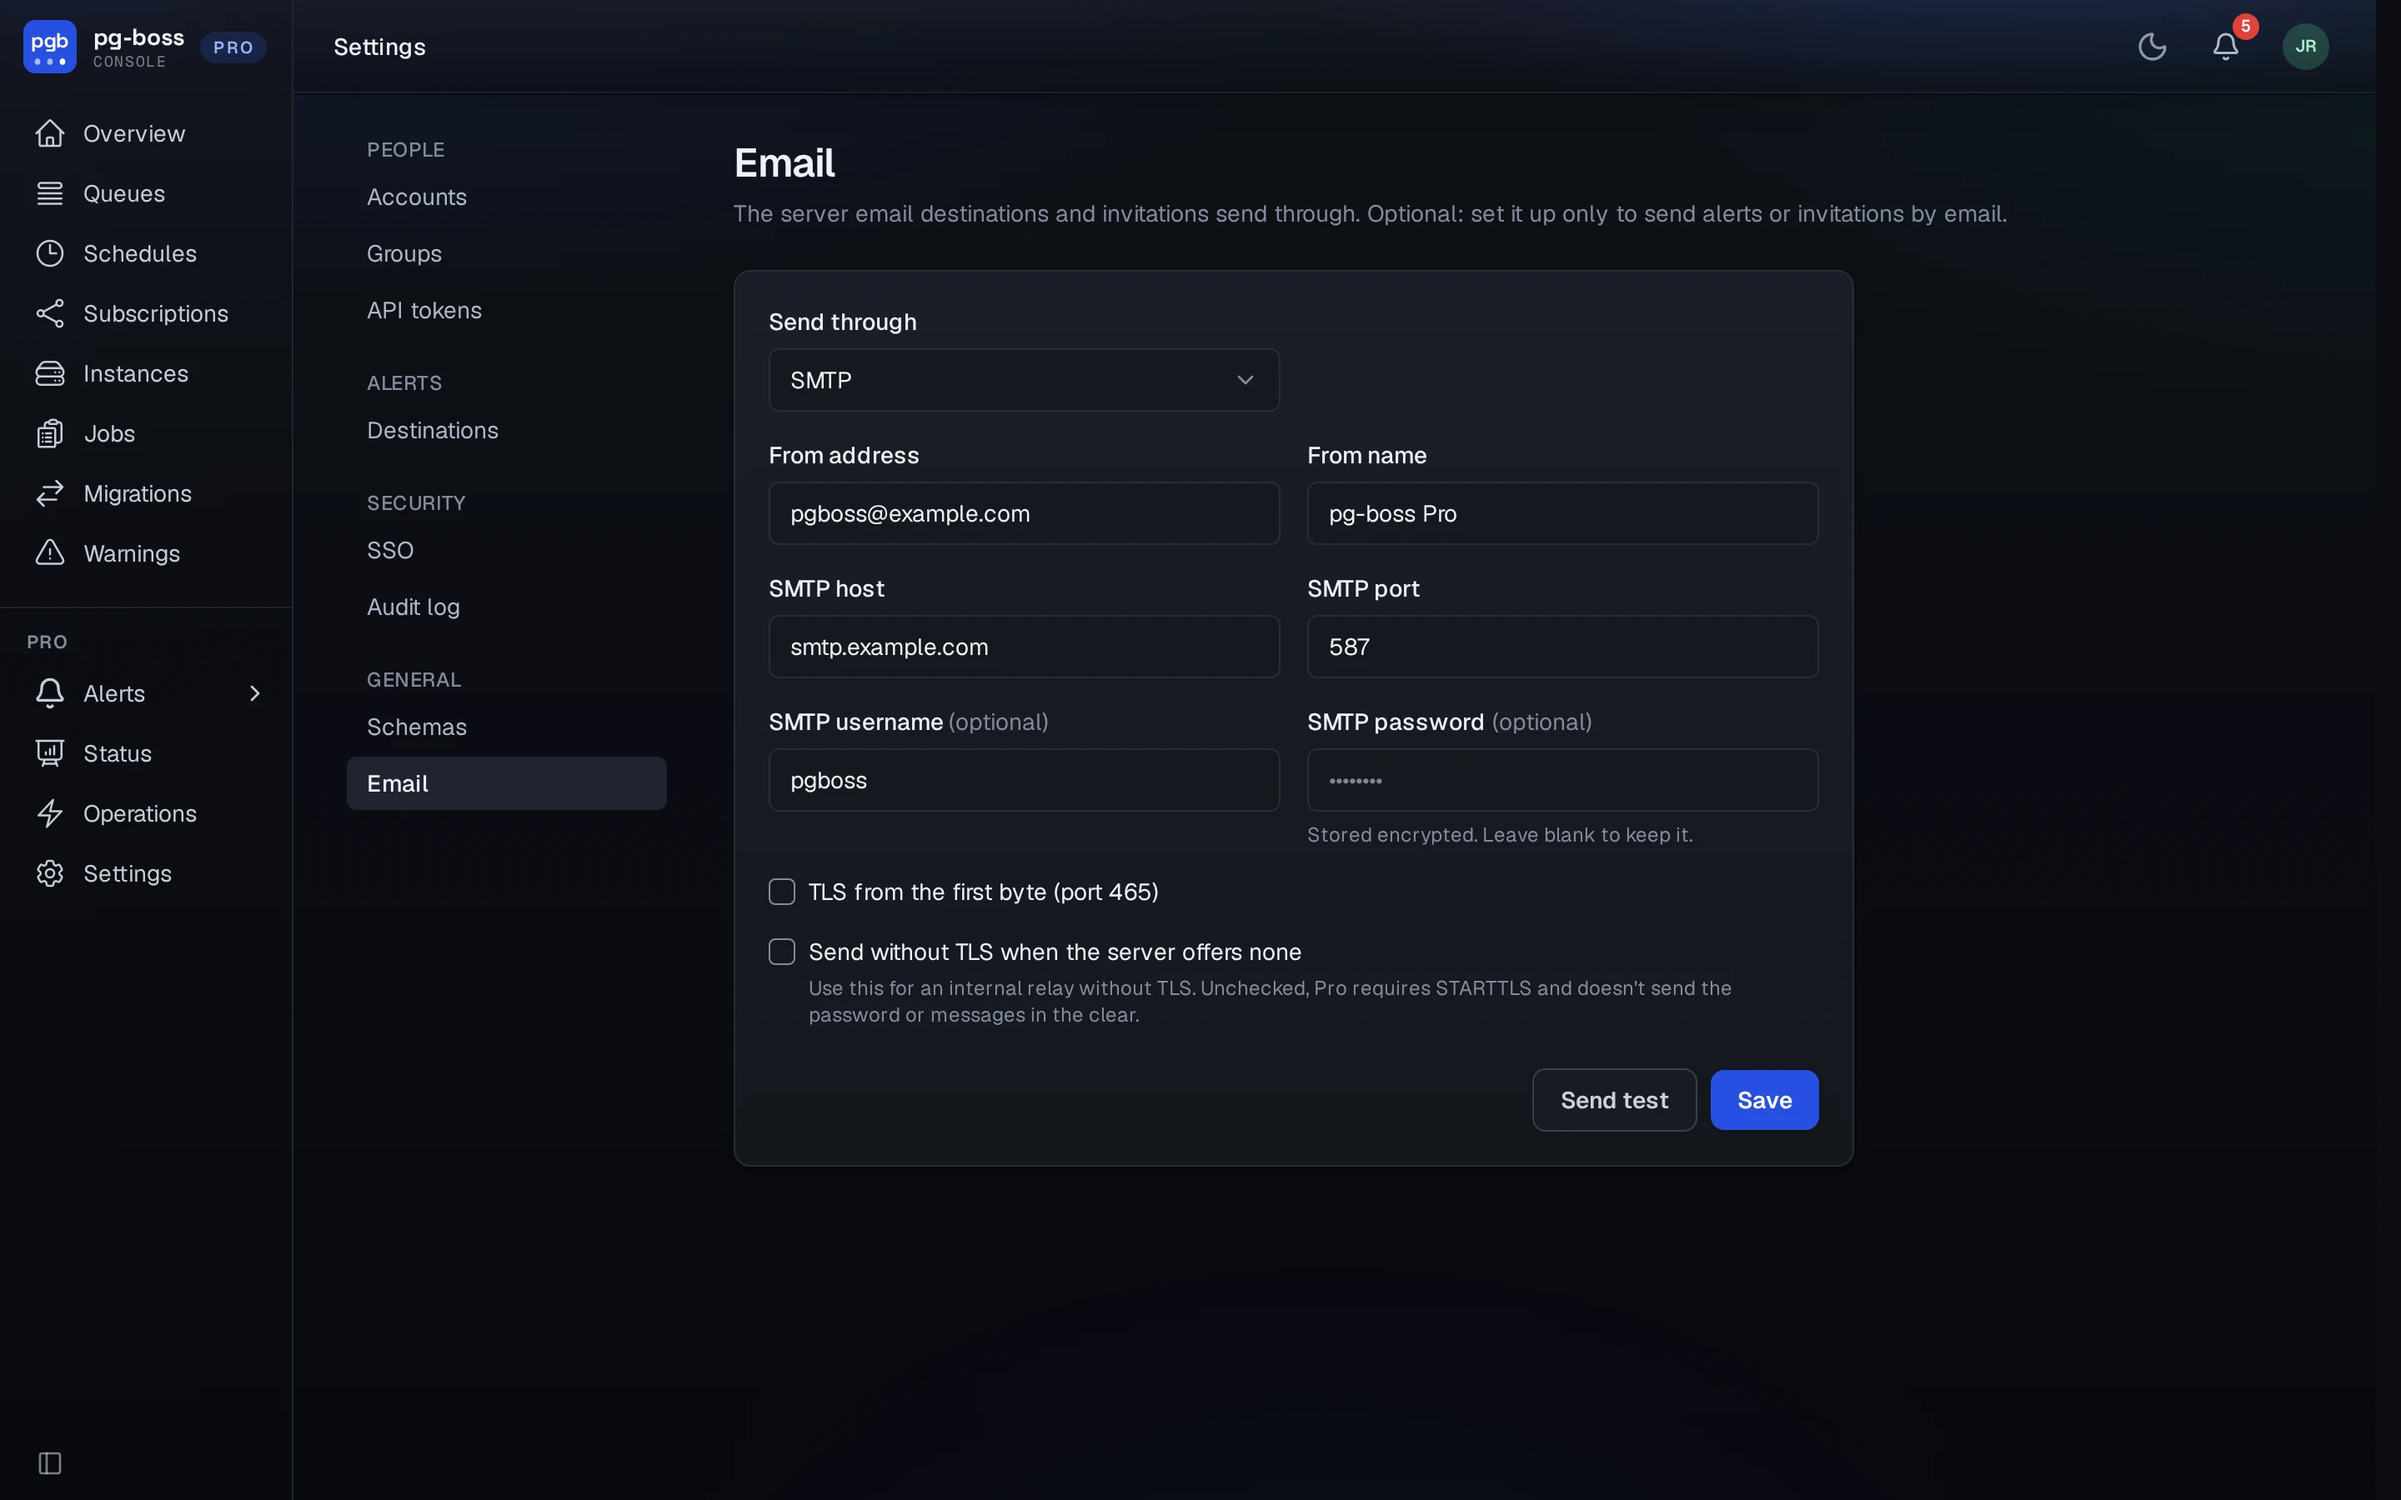
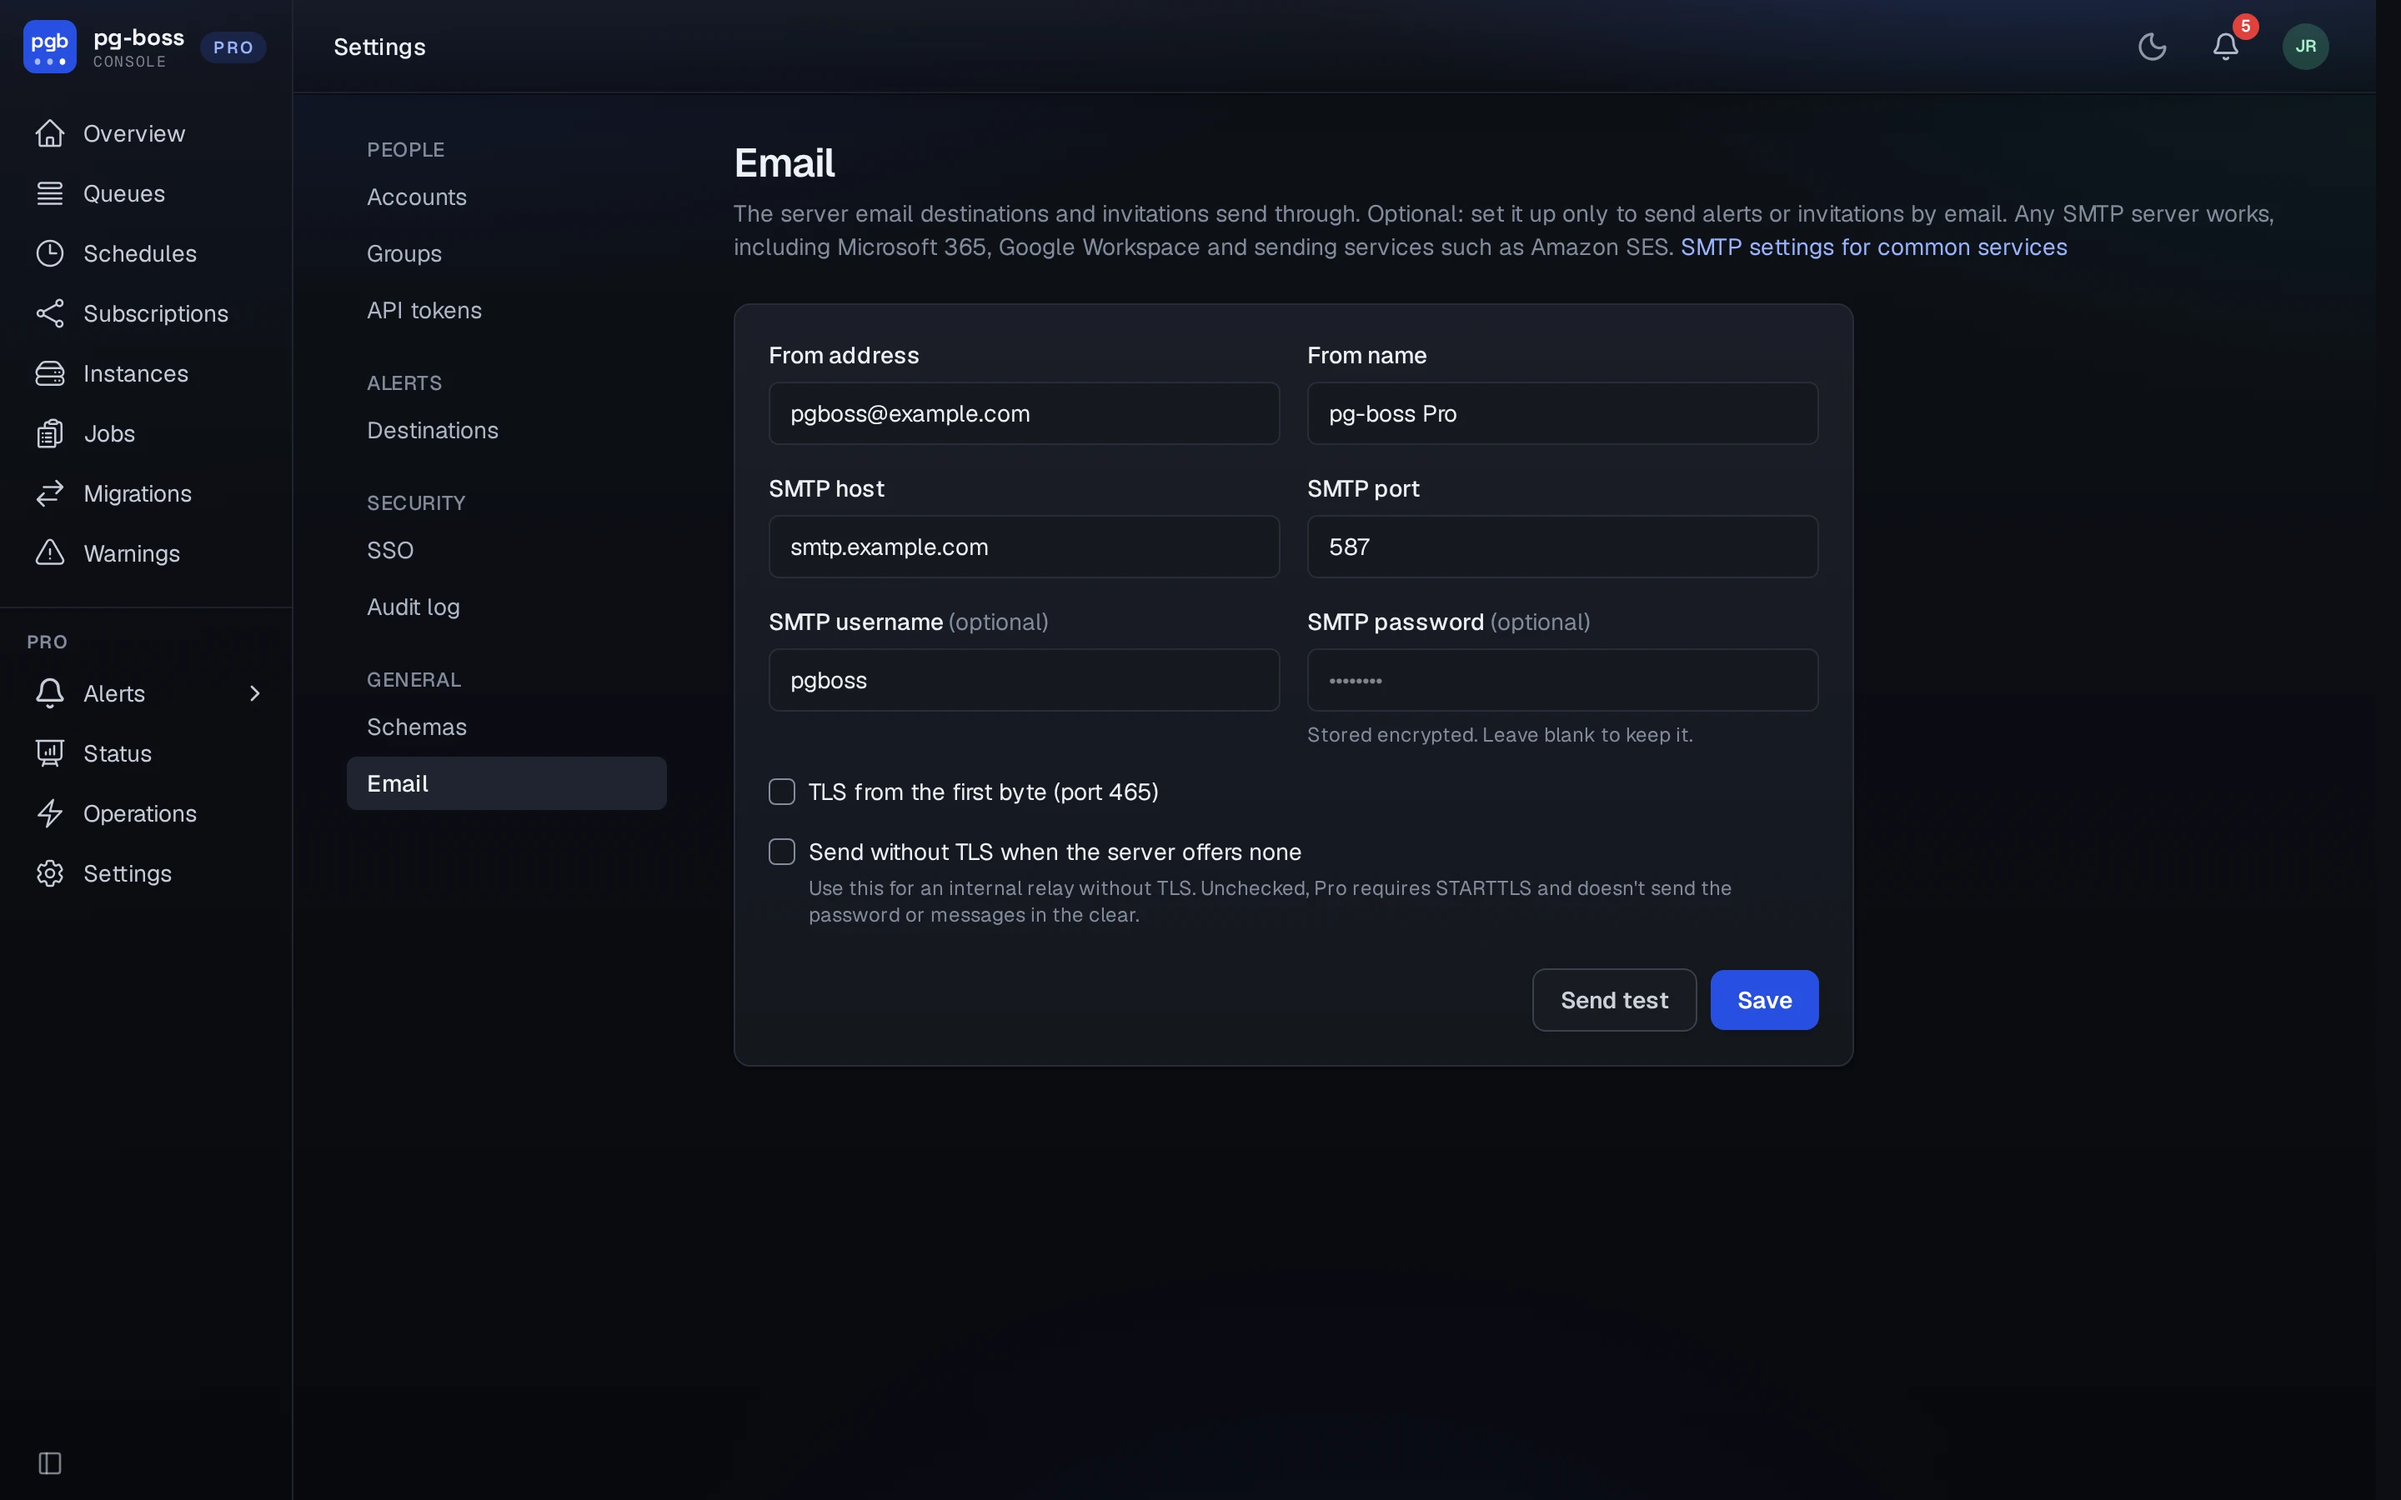
docs: Settings › Email is SMTP only, with settings for common services

diff --git a/docs/pro/destinations.md b/docs/pro/destinations.md
@@ -71,8 +71,8 @@ Pro queues each resolve once per fire, under a job id made from the alert and th
 send is kept for 8 days, which stops the evaluator from queuing the same resolve again.
 
 Every email destination sends through the one email server under **Settings › Email**. Two email
-destinations can still send at the same time. Resend answers a burst over its rate limit with 429, which
-Pro retries like any other failure.
+destinations can still send at the same time. A sending service may refuse a burst over its rate
+limit with a 4xx reply, which Pro retries like any other failure.
 
 ## Email
 
@@ -82,7 +82,8 @@ Destinations page says nothing about the server until an email destination exist
 server is set up, an email destination shows **Waiting for Settings › Email** and its switch can't
 be turned on.
 
-Email goes out through SMTP or Resend. **Send test** on the Email page sends one message to your
+Email goes out through SMTP, to any server Pro can reach: a relay on the internal network, a
+mailbox provider or a sending service. **Send test** on the Email page sends one message to your
 own address with the settings in the form, saved or not. Each person can send 5 tests in 15 minutes,
 and everyone together 20, before tests stop for 15 minutes.
 
@@ -99,6 +100,28 @@ turns off the STARTTLS requirement.
 Pro sends each email with an HTML part and a plain text part, for mail clients that show only text.
 
 ![An alert email for a stalled queue](../images/pro/alert-email.webp)
+
+### SMTP settings for common services
+
+Each service's own docs have the current values. The From address must be one the service lets the
+login send from, usually on a domain verified with it.
+
+| Service | SMTP host | Port | Username and password |
+|---|---|---|---|
+| Microsoft 365, SMTP AUTH | `smtp.office365.com` | 587 | The sending mailbox's address and password. SMTP AUTH must be on for the mailbox |
+| Microsoft 365, connector | The domain's MX host, such as `example-com.mail.protection.outlook.com` | 25 | None. An inbound connector in Exchange Online accepts Pro's public IP address |
+| Google Workspace | `smtp-relay.gmail.com` | 587 | None when the SMTP relay service in the Admin console allows Pro's IP address, else a Workspace user's address and app password |
+| Amazon SES | `email-smtp.<region>.amazonaws.com` | 587 | SMTP credentials made in the SES console, not an AWS access key |
+| SendGrid | `smtp.sendgrid.net` | 587 | `apikey`, and an API key |
+| Postmark | `smtp.postmarkapp.com` | 587 | A Server API token, in both fields |
+| Mailgun | `smtp.mailgun.org`, or `smtp.eu.mailgun.org` in the EU | 587 | The domain's SMTP login and password |
+| Resend | `smtp.resend.com` | 587 | `resend`, and an API key |
+
+Each of these takes STARTTLS on the port listed, which Pro requires by default. Leave **TLS from
+the first byte (port 465)** unchecked for them.
+
+Microsoft has announced the end of password sign-in for SMTP AUTH in Exchange Online. The
+connector doesn't depend on it, though it needs Pro to reach port 25 from a fixed public address.
 
 ## Webhook
 

diff --git a/docs/pro/network.md b/docs/pro/network.md
@@ -12,8 +12,8 @@ set up, Pro talks only to its Postgres database.
 | `npm install` | at install or upgrade | `npm.pgboss.io`, the configured registry |
 | A webhook alert | only once a webhook destination exists, when a rule sending to it fires or its alert closes, or a user sends a test | the URL on that destination |
 | A PagerDuty alert | only once a PagerDuty destination exists, at the same moments | `events.pagerduty.com` |
-| An email alert | only once an email destination exists, at the same moments, or when a global admin presses **Send test** under **Settings › Email** | the configured SMTP server, or `api.resend.com` |
-| An invitation email | when a global admin sends an invitation from an account's page, or adds a person with **Email the link to this address** checked | the configured SMTP server, or `api.resend.com` |
+| An email alert | only once an email destination exists, at the same moments, or when a global admin presses **Send test** under **Settings › Email** | the configured SMTP server |
+| An invitation email | when a global admin sends an invitation from an account's page, or adds a person with **Email the link to this address** checked | the configured SMTP server |
 | A schema's database | only once a schema is added, when a page, the alert evaluator or an operation reads or changes it | the host in that schema's connection |
 | Single sign-on | when a user signs in or presses **Test connection** | the provider's issuer, token and key endpoints |
 
@@ -29,7 +29,7 @@ Set `PGBOSS_PRO_BLOCK_PRIVATE_ADDRESSES=true` to keep webhook and SMTP
 destinations on the public internet. Pro then refuses any destination whose host resolves to a loopback,
 private, link-local, shared or other non-public address. The destination's
 deliveries show the reason. Pro checks the address it connects to. A host name can't pass the
-check and then resolve somewhere private. PagerDuty and Resend are public
+check and then resolve somewhere private. PagerDuty is public
 already. Single sign-on isn't covered, because providers often run on the
 internal network. The provider's endpoints must use https, or http on localhost.
 

diff --git a/docs/pro/install.md b/docs/pro/install.md
@@ -147,7 +147,7 @@ Open the setup link and create the first global administrator. Whoever reaches a
 ## Email server
 
 After setup, Pro opens **Settings › Email**, an optional step. Pro sends alert email and invitations
-through this server, by SMTP or with a Resend API key. Set it up and press **Save**, or press
+through this server, which is any SMTP server Pro can reach. Set it up and press **Save**, or press
 **Skip** and set it up later from Settings. Either way, Pro goes on to **Settings › Schemas**.
 See [email](./destinations.md#email).
 
@@ -164,7 +164,7 @@ or PagerDuty:
 
 1. Add a destination under **Settings › Destinations**: an email list, a webhook or PagerDuty. Pro
    offers to send the rules that are on to it.
-2. For an email destination, set up **Settings › Email** with an SMTP server or a Resend API key.
+2. For an email destination, set up **Settings › Email** with an SMTP server.
 3. Press **Send test** on the destination's row. A webhook or PagerDuty destination gets a sample
    alert that fires and then resolves. An email destination gets one message.
 
